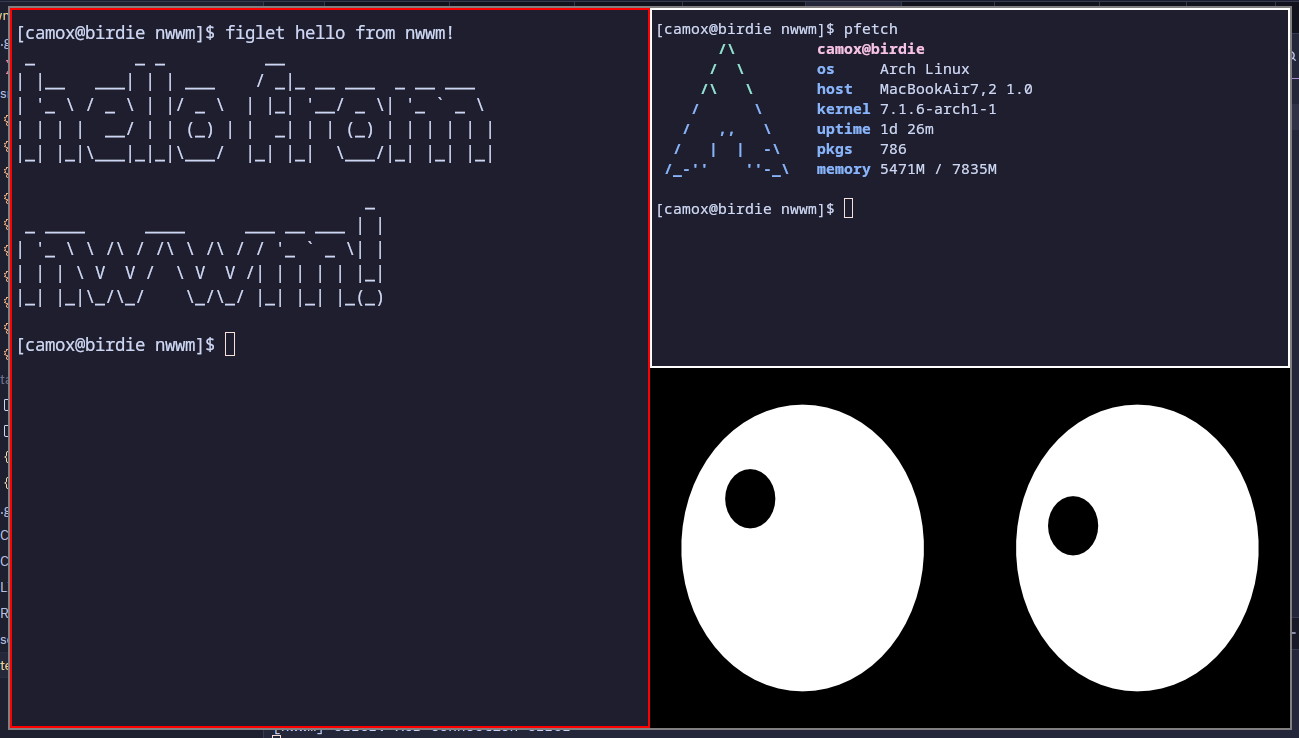
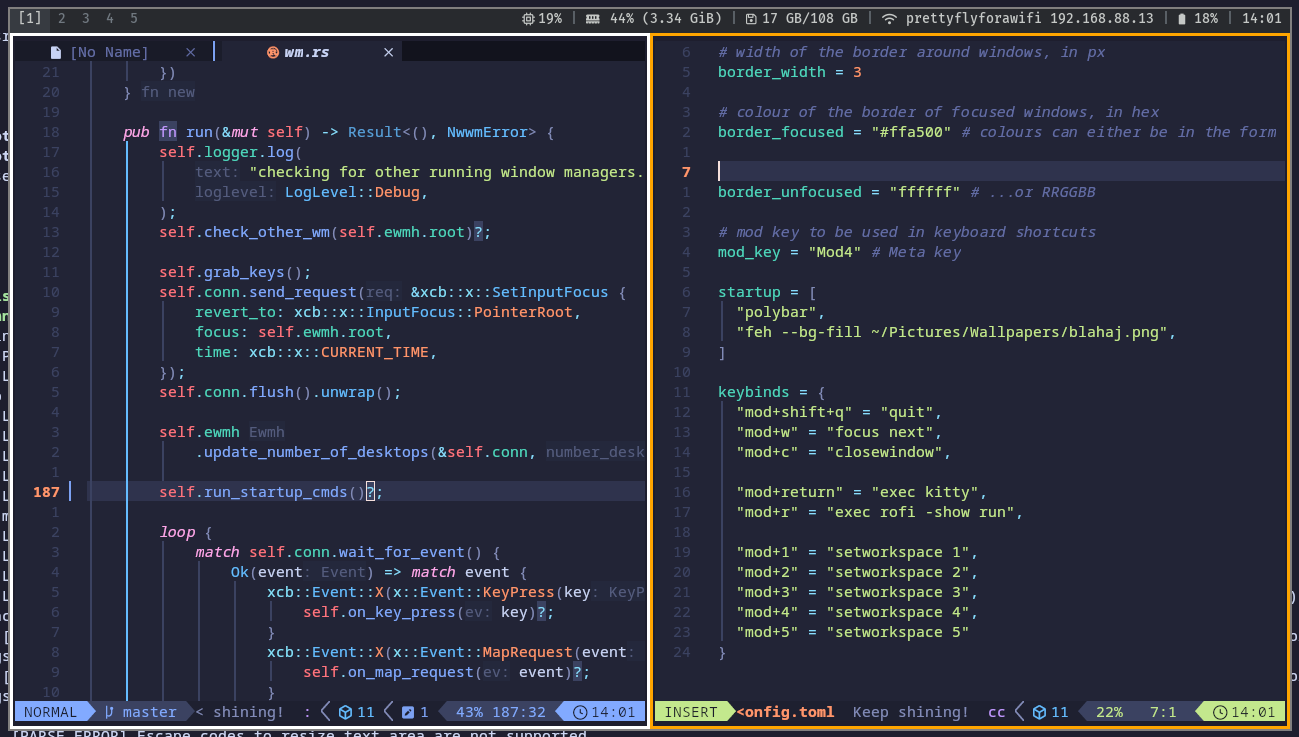
made config loading better

diff --git a/src/config.rs b/src/config.rs
@@ -1,8 +1,9 @@
 use serde::Deserialize;
-use std::{fs, io::Write};
+use std::{collections::HashMap, fs, io::Write};
+use xcb::x::{Keysym, ModMask};
 
 use crate::{
-    err::NwwmError,
+    err::NwwmError::{self, ParseActionError},
     keybinds::{Action, Keybind},
     logger::{LogLevel, Logger},
     tile::Layout,
@@ -25,6 +26,7 @@ pub struct FileConfig {
     border_focused: String,
     border_unfocused: String,
     mod_key: String,
+    keybinds: HashMap<String, String>,
     startup: Vec<String>,
 }
 
@@ -62,6 +64,108 @@ fn parse_color(color: &str) -> Result<(u16, u16, u16), NwwmError> {
     let b = u8::from_str_radix(&hex[4..6], 16).map_err(|_| NwwmError::HexFormatError)?;
 
     Ok((r as u16 * 0x0101, g as u16 * 0x0101, b as u16 * 0x0101))
+}
+
+fn parse_keybinds(
+    mod_key: ModMask,
+    keybinds: HashMap<String, String>,
+) -> Result<Vec<Keybind>, NwwmError> {
+    let mut keybind_list: Vec<Keybind> = Vec::new();
+
+    for (key, value) in keybinds.into_iter() {
+        let key_parsed = parse_key(mod_key, key);
+        if key_parsed.is_err() {
+            return Err(NwwmError::KeyBindError);
+        }
+        let (modifiers, keysym) = key_parsed.unwrap();
+
+        let action_parsed = parse_action(value);
+        if action_parsed.is_err() {
+            return Err(NwwmError::ParseActionError);
+        }
+        let action = action_parsed.unwrap();
+
+        keybind_list.push(Keybind {
+            modifiers,
+            keysym,
+            action,
+        });
+    }
+
+    Ok(keybind_list)
+}
+
+fn parse_key(mod_key: ModMask, key_string: String) -> Result<(ModMask, u32), NwwmError> {
+    let key_split: Vec<&str> = key_string.split("+").collect();
+    let mut modifiers = xcb::x::ModMask::empty();
+
+    if key_split.len() < 2 {
+        return Err(NwwmError::KeyBindError);
+    }
+
+    let key = key_split.last().unwrap();
+
+    for i in &key_split[..key_split.len() - 1] {
+        match i.to_lowercase().as_str() {
+            "mod" => modifiers |= mod_key,
+            "shift" => modifiers |= xcb::x::ModMask::SHIFT,
+            "ctrl" => modifiers |= xcb::x::ModMask::CONTROL,
+            "alt" => modifiers |= xcb::x::ModMask::N1,
+            _ => return Err(NwwmError::ModError),
+        }
+    }
+
+    let keysym = xkb::keysym_from_name(key, xkb::KEYSYM_CASE_INSENSITIVE).raw();
+    if keysym == xkb::keysyms::KEY_NoSymbol {
+        // keysym_from_name returns KEY_NoSymbol if the key is invalid
+        return Err(NwwmError::KeyBindError);
+    }
+
+    Ok((modifiers, keysym))
+}
+
+fn parse_action(action_string: String) -> Result<Action, NwwmError> {
+    let action_split = match action_string.split_once(" ") {
+        Some((action_name, params)) => vec![action_name, params.trim()],
+        None => vec![action_string.as_str()],
+    };
+    let action = match action_split[0] {
+        "quit" => Action::Quit,
+        "closewindow" => Action::CloseWindow,
+        "exec" => {
+            if action_split.len() == 1 {
+                return Err(ParseActionError);
+            }
+
+            Action::Exec(action_split[1].to_string())
+        }
+        "setworkspace" => {
+            if action_split.len() == 1 {
+                return Err(ParseActionError);
+            }
+
+            let workspace = action_split[1].parse::<usize>();
+            if workspace.is_err() {
+                return Err(ParseActionError);
+            }
+
+            Action::SwitchWorkspace(workspace.unwrap())
+        }
+
+        "focus" => {
+            if action_split.len() == 1 {
+                return Err(ParseActionError);
+            }
+
+            match action_split[1] {
+                "next" => Action::FocusNext,
+                _ => return Err(ParseActionError),
+            }
+        }
+        _ => Action::CloseWindow,
+    };
+
+    Ok(action)
 }
 
 fn alloc_color_from_hex(
@@ -144,73 +248,23 @@ impl Config {
             }
         };
 
-        let keybinds = vec![
-            Keybind {
-                modifiers: mod_key,
-                keysym: xkb::keysyms::KEY_w,
-                action: Action::FocusNext,
-            },
-            Keybind {
-                modifiers: mod_key,
-                keysym: xkb::keysyms::KEY_m,
-                action: Action::SetLayout(Layout::Monocle),
-            },
-            Keybind {
-                modifiers: mod_key,
-                keysym: xkb::keysyms::KEY_s,
-                action: Action::SetLayout(Layout::MasterStack),
-            },
-            Keybind {
-                modifiers: mod_key,
-                keysym: xkb::keysyms::KEY_c,
-                action: Action::CloseWindow,
-            },
-            Keybind {
-                modifiers: mod_key,
-                keysym: xkb::keysyms::KEY_1,
-                action: Action::SwitchWorkspace(1),
-            },
-            Keybind {
-                modifiers: mod_key,
-                keysym: xkb::keysyms::KEY_2,
-                action: Action::SwitchWorkspace(2),
-            },
-            Keybind {
-                modifiers: mod_key,
-                keysym: xkb::keysyms::KEY_3,
-                action: Action::SwitchWorkspace(3),
-            },
-            Keybind {
-                modifiers: mod_key,
-                keysym: xkb::keysyms::KEY_4,
-                action: Action::SwitchWorkspace(4),
-            },
-            Keybind {
-                modifiers: mod_key,
-                keysym: xkb::keysyms::KEY_5,
-                action: Action::SwitchWorkspace(5),
-            },
-            Keybind {
-                modifiers: mod_key,
-                keysym: xkb::keysyms::KEY_r,
-                action: Action::Exec("rofi -show run".to_string()),
-            },
-            Keybind {
-                modifiers: mod_key,
-                keysym: xkb::keysyms::KEY_Return,
-                action: Action::Exec("kitty".to_string()),
-            },
-            Keybind {
-                modifiers: mod_key | xcb::x::ModMask::SHIFT,
-                keysym: xkb::keysyms::KEY_q,
-                action: Action::Quit,
-            },
-            Keybind {
-                modifiers: xcb::x::ModMask::N4,
-                keysym: xkb::keysyms::KEY_n,
-                action: Action::Exec("test-unavailable-command".to_string()), // test keybind to test trying to open non-existent programs
-            },
-        ];
+        let parsed_keybinds = parse_keybinds(mod_key, config_file.keybinds);
+        let keybinds = match parsed_keybinds {
+            Ok(keybinds) => keybinds,
+            Err(_) => {
+                logger.log(
+                    "failed to parse keybinds. using default minimal keybinds...",
+                    LogLevel::Error,
+                );
+
+                vec![Keybind {
+                    modifiers: mod_key | xcb::x::ModMask::SHIFT,
+                    keysym: xkb::keysyms::KEY_q,
+                    action: Action::Quit,
+                }]
+            }
+        };
+
         let startup: Vec<String> = config_file.startup;
 
         Self {

diff --git a/src/err.rs b/src/err.rs
@@ -10,6 +10,9 @@ pub enum NwwmError {
     XKBError,
     SpawnCommandError,
     HexFormatError,
+    KeyBindError,
+    ModError,
+    ParseActionError,
 }
 
 impl fmt::Display for NwwmError {
@@ -46,6 +49,24 @@ impl fmt::Display for NwwmError {
                 write!(
                     f,
                     "[nwwm] error: colours should be in #RRGGBB format (this shouldn't be fatal - open an issue on GitHub"
+                )
+            }
+            NwwmError::KeyBindError => {
+                write!(
+                    f,
+                    "[nwwm] error: invalid keybind (this shouldn't be fatal - open an issue on GitHub"
+                )
+            }
+            NwwmError::ModError => {
+                write!(
+                    f,
+                    "[nwwm] error: invalid modifier in keybind (this shouldn't be fatal - open an issue on GitHub"
+                )
+            }
+            NwwmError::ParseActionError => {
+                write!(
+                    f,
+                    "[nwwm] error: failed to parse action (this shouldn't be fatal - open an issue on GitHub"
                 )
             }
         }

diff --git a/src/wm.rs b/src/wm.rs
@@ -184,7 +184,7 @@ impl WindowManager {
         self.ewmh
             .update_number_of_desktops(&self.conn, self.num_workspaces as u32);
 
-        self.run_startup_cmds();
+        self.run_startup_cmds()?;
 
         loop {
             match self.conn.wait_for_event() {

diff --git a/README.md b/README.md
@@ -18,7 +18,8 @@
   - [ ] dwindle
 - [x] keybinds
   - [x] modular?
-  - [ ] customisable?
+  - [x] customisable?
+- [x] runtime config loading
 - [x] cool cosmetic stuff
   - [x] window borders
   - [ ] vanity gaps
